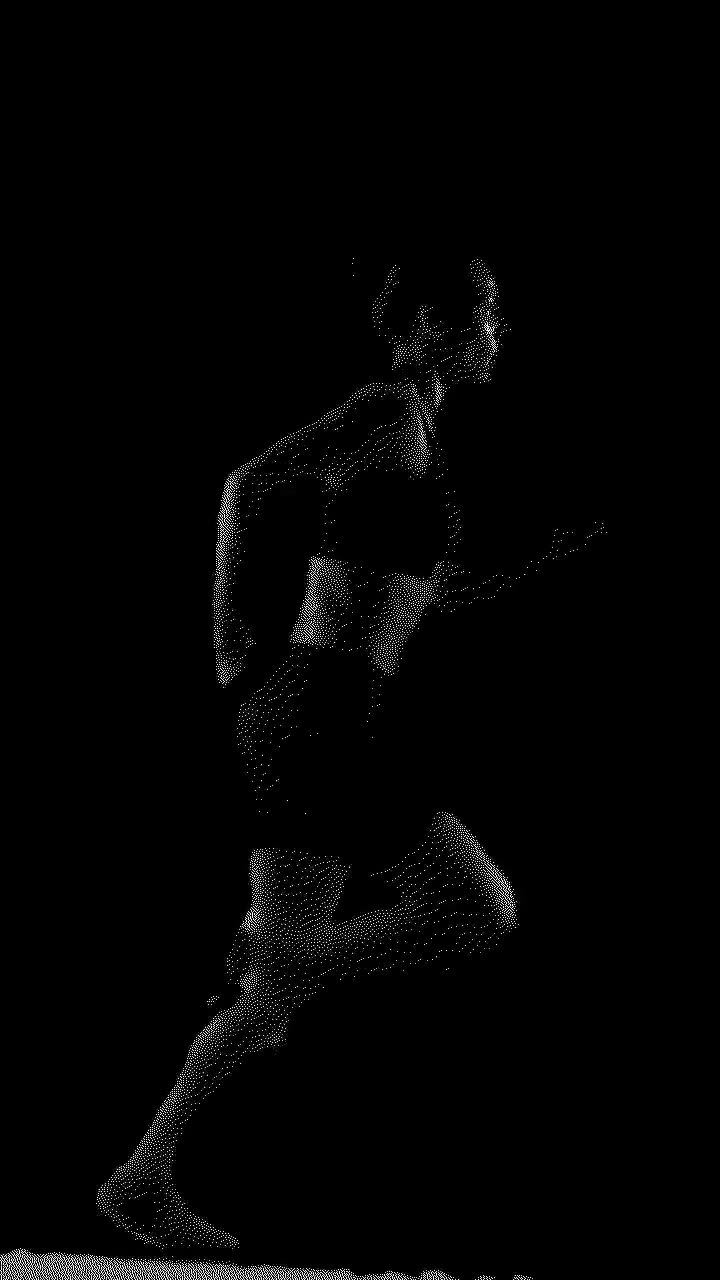
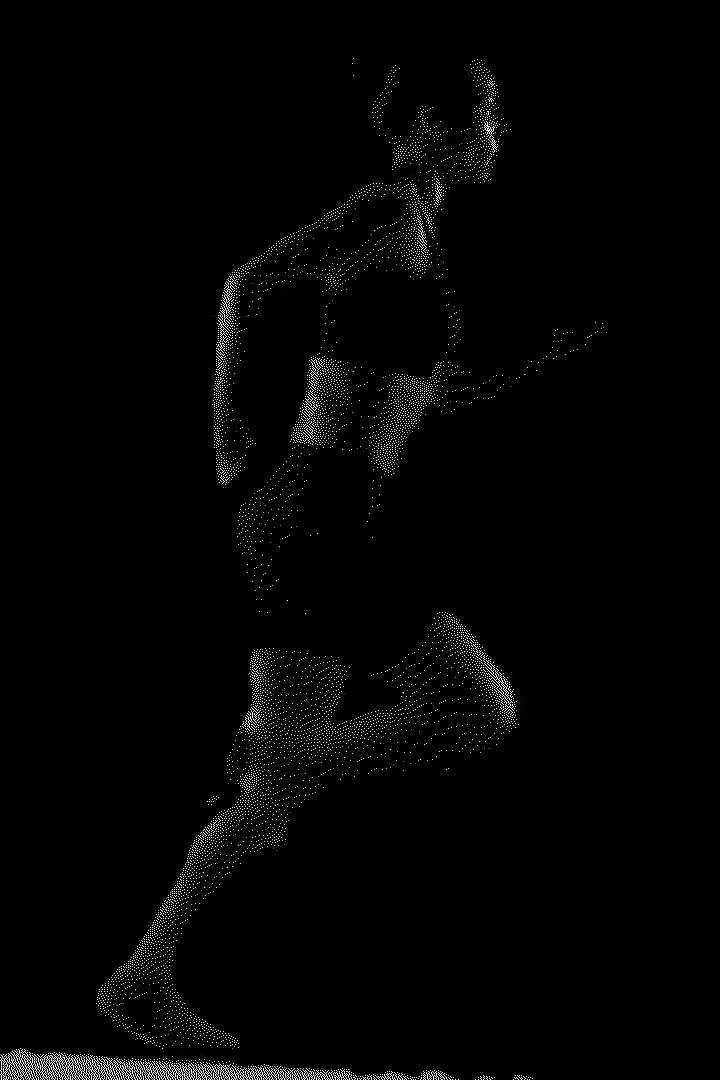
Prefinal: trim runner clip's top headroom (9:16 → 2:3)
The runner source had a tall black headroom band above the figure, which
left a large dead black space at the top of the frame (most visible on
phone, where contain shows the whole source). Cropped the file's top 200px
(720×1280 → 720×1080 = 2:3) so the runner sits with only a small headroom,
and set .prefinal__video aspect-ratio to 2/3 so desktop stays full-bleed.

Also re-encoded at 30fps (from 60) which, with the crop, drops the file
18MB → 12.6MB while keeping the dither crisp — a win for the preloaded
runner. Poster regenerated from the trimmed clip.

diff --git a/src/App.css b/src/App.css
@@ -117,10 +117,12 @@ body.crosshair-cursor .hero {
      9:16 at 88vh is only ~50vh wide. */
   height: 88vh;
   max-height: 920px;
-  /* Container is now a div holding two stacked <video> clips for crossfade,
-     so we can't rely on the intrinsic <video> aspect. Pin the 9:16 portrait
-     ratio explicitly. */
-  aspect-ratio: 9 / 16;
+  /* Container is a div holding two stacked <video> clips for crossfade, so we
+     can't rely on the intrinsic <video> aspect. Pin it to the runner clip's
+     ratio. The source was trimmed at the top (it had a tall black headroom
+     band above the figure) to 720×1080 = 2:3, so the runner sits with only a
+     small headroom instead of floating in dead space. */
+  aspect-ratio: 2 / 3;
   width: auto;
   max-width: 100%;
   flex: 0 0 auto;